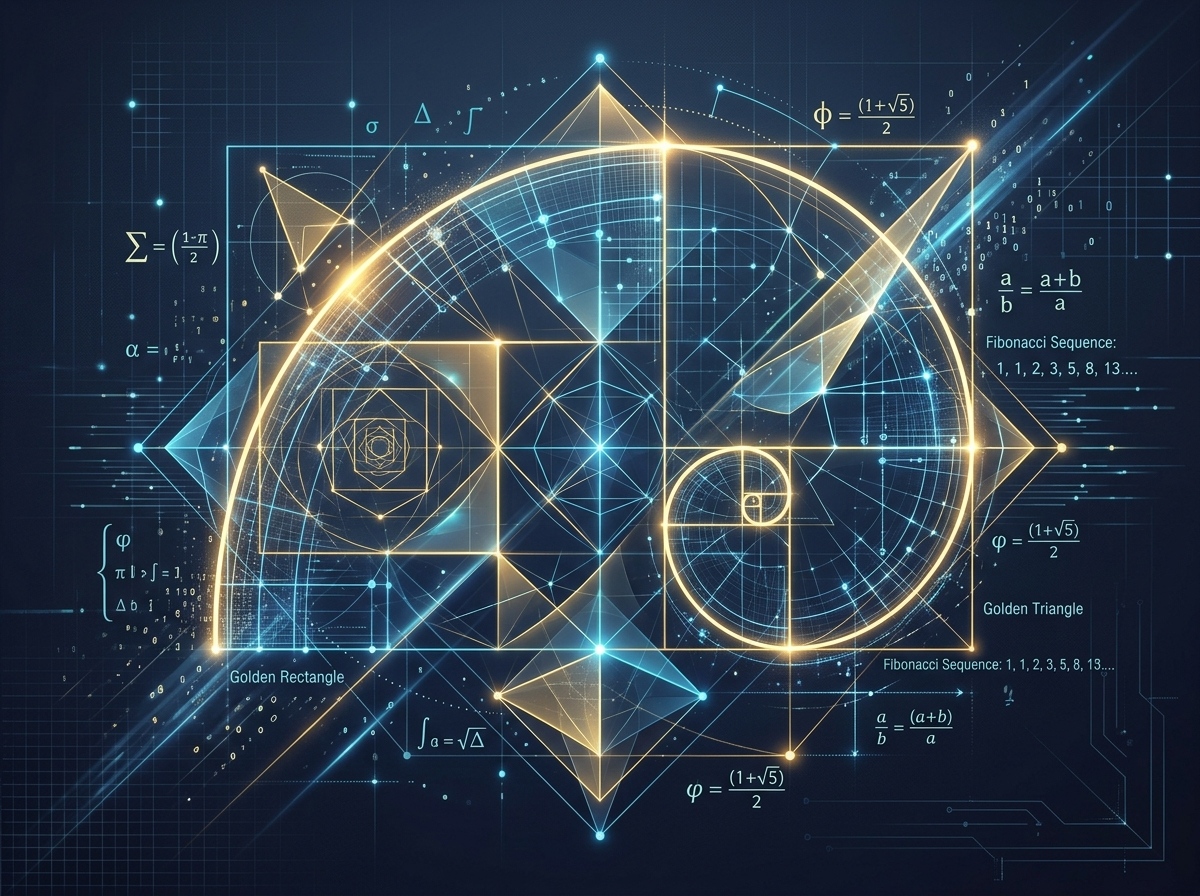
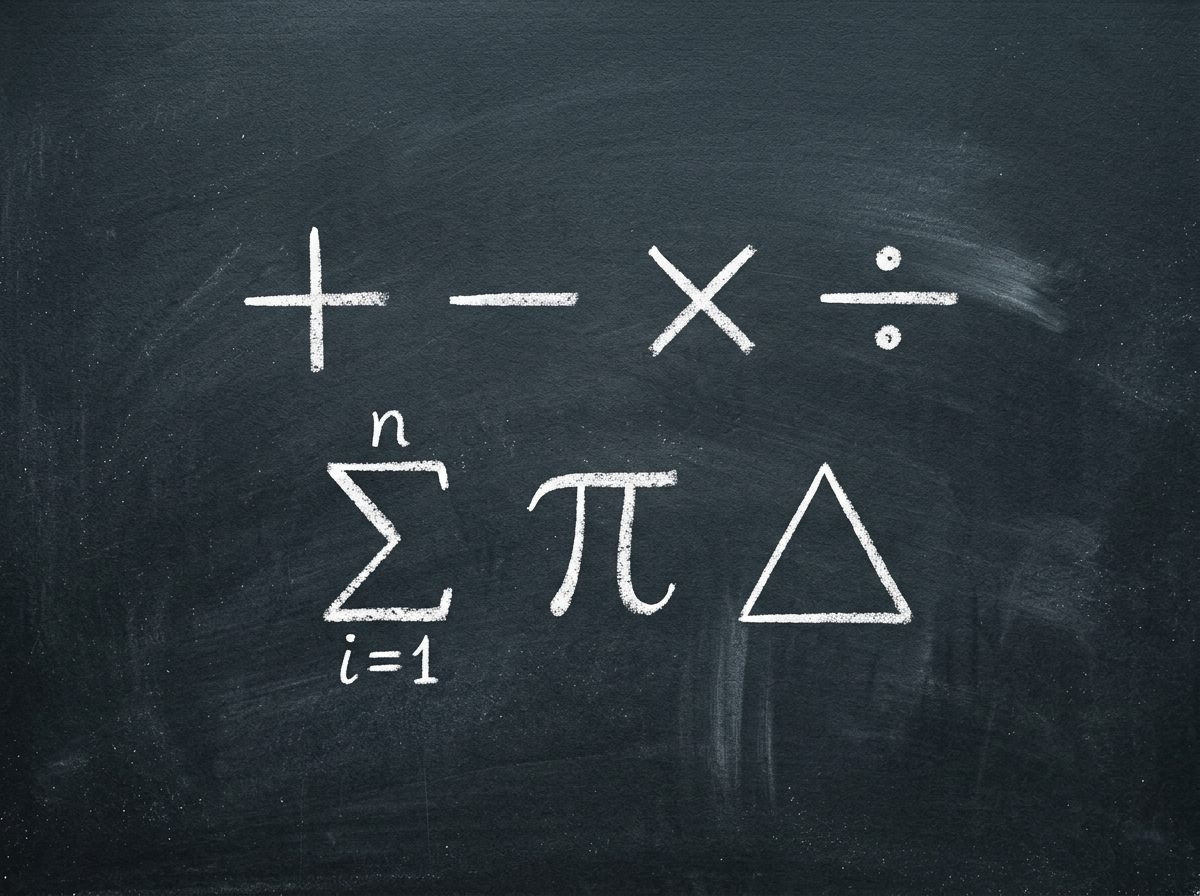
style(css): make scrollbar track 100% transparent with subtle overlay hint slider

diff --git a/components/about/PhilosophySection.tsx b/components/about/PhilosophySection.tsx
@@ -42,14 +42,14 @@ export function PhilosophySection() {
             return (
               <div
                 key={idx}
-                className="rounded-2xl bg-slate-50 p-6 md:p-8 border border-slate-200/80 shadow-xs flex flex-col justify-between hover:border-amber-400 hover:shadow-md transition-all"
+                className="rounded-2xl bg-slate-50 p-6 md:p-8 border border-slate-200/80 shadow-xs flex flex-col justify-between hover:border-indigo-300 hover:shadow-md transition-all"
               >
                 <div className="flex flex-col gap-4">
                   <div className="flex items-center justify-between">
                     <div className="flex h-11 w-11 items-center justify-center rounded-xl bg-amber-500 text-slate-950 shadow-xs">
                       <Icon className="h-5 w-5 stroke-[2.5]" />
                     </div>
-                    <Badge variant="amber" className="text-[10px]">
+                    <Badge variant="indigo" className="text-[10px]">
                       {item.badge}
                     </Badge>
                   </div>
@@ -71,14 +71,14 @@ export function PhilosophySection() {
         <div className="rounded-3xl bg-slate-900 text-white p-6 md:p-10 border border-slate-800 shadow-2xl overflow-hidden">
           <div className="grid grid-cols-1 lg:grid-cols-12 gap-8 items-center">
             
-            {/* Left Side: Mathematical Geometric Art Image */}
+            {/* Left Side: Minimalist Chalkboard Math Image */}
             <div className="lg:col-span-5 overflow-hidden rounded-2xl border border-slate-700/80 shadow-lg relative aspect-4/3 sm:aspect-16/9 lg:aspect-4/3">
               <img
                 src="/manifesto_math_art.jpg"
-                alt="Mathematical Geometric Art and Fibonacci Spiral"
+                alt="Minimalist Chalkboard Math Symbols"
                 className="w-full h-full object-cover transform hover:scale-105 transition-transform duration-500"
               />
-              <div className="absolute inset-0 bg-gradient-to-t from-slate-950/60 via-transparent to-transparent pointer-events-none" />
+              <div className="absolute inset-0 bg-gradient-to-t from-slate-950/40 via-transparent to-transparent pointer-events-none" />
             </div>
 
             {/* Right Side: Manifesto Quote */}

diff --git a/app/globals.css b/app/globals.css
@@ -3,6 +3,8 @@
 @layer base {
   html {
     font-feature-settings: "cv02", "cv03", "cv04", "cv11";
+    scrollbar-color: rgba(148, 163, 184, 0.35) transparent;
+    scrollbar-width: thin;
   }
   
   body {
@@ -26,21 +28,22 @@
   -webkit-backdrop-filter: blur(12px);
 }
 
-/* Smooth custom scrollbars */
+/* Ultra-subtle overlay scrollbar: 100% transparent track & subtle hint slider */
 ::-webkit-scrollbar {
-  width: 8px;
-  height: 8px;
+  width: 6px;
+  height: 6px;
 }
 
 ::-webkit-scrollbar-track {
-  background: #f1f5f9;
+  background: transparent;
 }
 
 ::-webkit-scrollbar-thumb {
-  background: #cbd5e1;
-  border-radius: 4px;
+  background: rgba(148, 163, 184, 0.35);
+  border-radius: 9999px;
+  transition: background-color 0.2s ease;
 }
 
 ::-webkit-scrollbar-thumb:hover {
-  background: #94a3b8;
+  background: rgba(99, 102, 241, 0.6);
 }
